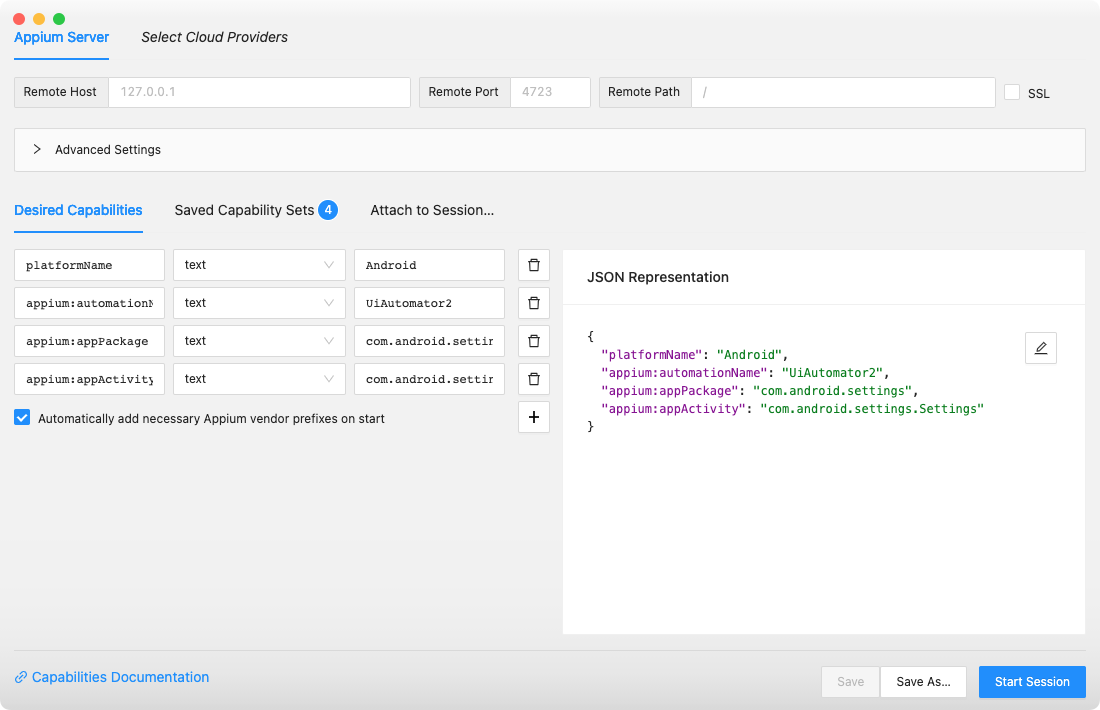
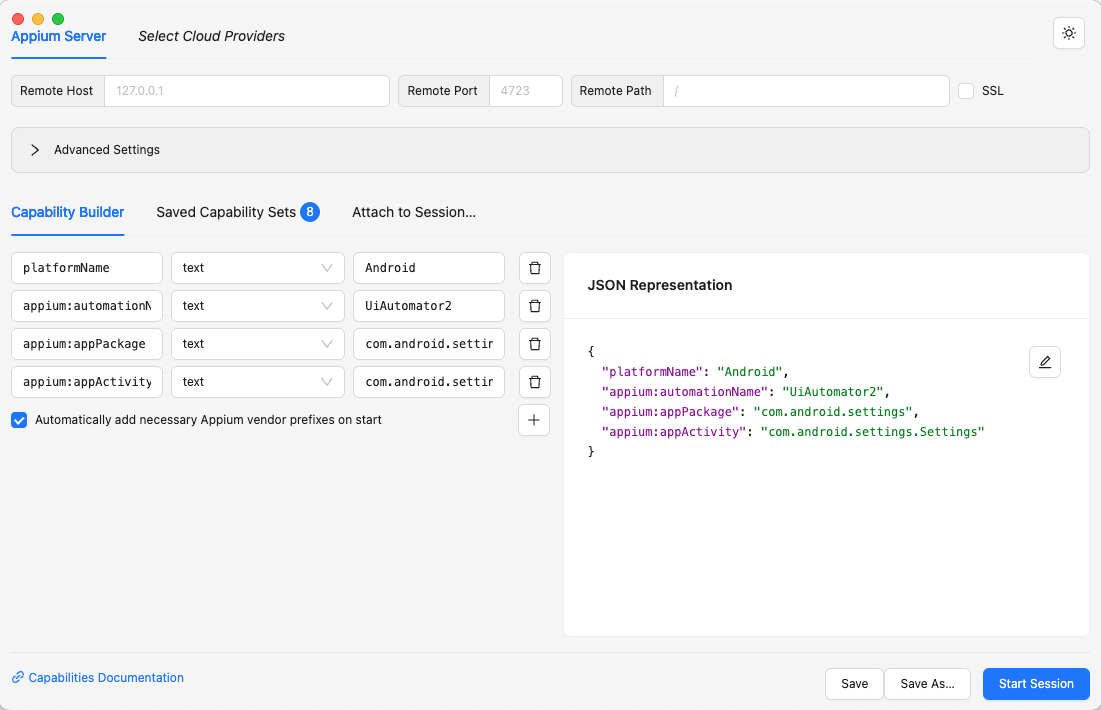
docs: add app settings page for theme & update images (#2161)
* docs: add app settings page for theme & update images

* docs: rename app settings page for clarity

* docs: fix placeholder alt text

diff --git a/docs/session-builder/app-settings.md b/docs/session-builder/app-settings.md
@@ -1,0 +1,14 @@
+---
+hide:
+    - toc
+
+title: Application Settings
+---
+
+The application settings can be accessed using the button in the top-right of the Session Builder screen.
+
+![Theme Selector Button](assets/images/theme-selector.png)
+
+The only currently available option is the ability to change the application theme. By default, the
+Inspector will match the system theme, but it is also possible to explicitly switch to a light or
+dark theme.

diff --git a/docs/session-builder/index.md b/docs/session-builder/index.md
@@ -11,6 +11,7 @@ The **Session Builder** is the default screen shown upon opening the Inspector.
 
 The user interface here can be divided into several groups:
 
+- [Application Settings](./app-settings.md)
 - [Configuration of Server Details](./server-details.md)
 - [Capability Builder tab](./capability-builder.md)
 - [Saved Capability Sets tab](./saved-capability-sets.md)

diff --git a/README.md b/README.md
@@ -33,7 +33,7 @@ various features for interacting with the app.
 
 When inspecting a mobile app, the Inspector looks like this:
 
-![Appium Inspector screenshot](./docs/assets/images/inspector-window.png)
+![Appium Inspector screenshot](./docs/assets/images/session-inspector.png)
 
 ## Installation
 
